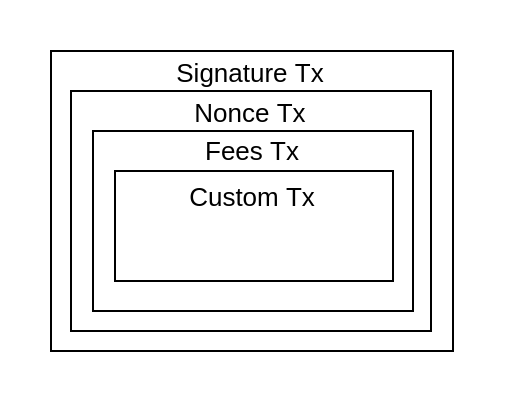
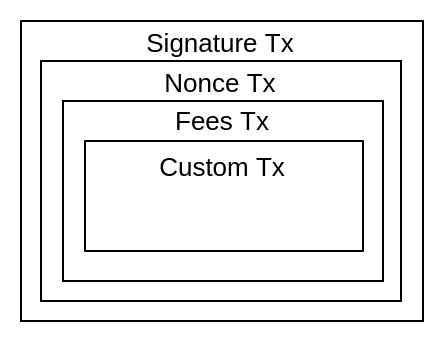
Create overview.md
Update infographic.xml

Update infographic.xml

Added tx.png

Added tx.png

Update overview.md

Added middleware.png

Added middleware.png

small infograpic doc changes

Changed region(s): [[0.0293, 0.0585, 0.9662, 0.9649]]

diff --git a/docs/quark/overview.md b/docs/quark/overview.md
@@ -1,0 +1,105 @@
+# Quark Overview
+
+The quark middleware design optimizes flexibility and security. The framework
+is designed around a modular execution stack which allows applications to mix
+and match modular elements as desired. Along side, all modules are permissioned
+and sandboxed to reduce 
+
+For more explanation please see the [standard
+library](https://github.com/tendermint/basecoin/blob/infographic/docs/quark/stdlib.md)
+and
+[glossary](https://github.com/tendermint/basecoin/blob/infographic/docs/quark/glossary.md)
+documentation.
+
+For a more interconnected schematics see these
+[framework](https://github.com/tendermint/basecoin/blob/infographic/docs/graphics/overview-framework.png)
+and
+[security](https://github.com/tendermint/basecoin/blob/infographic/docs/graphics/overview-security.png)
+overviews.
+
+## Framework Overview
+
+### Transaction (tx) 
+
+Each tx passes through the middleware stack which can be defined uniquely by
+each application.  From the multiple layers of tx, each middleware may strip
+off one level, like an onion.  As so, the transaction must be constructed to
+mirror the execution stack, and each middleware should allow embedding an
+arbitrary tx for the next layer in the stack.
+
+<img src="https://github.com/tendermint/basecoin/blob/infographic/docs/graphics/tx.png" width=250>
+
+### Execution Stack
+
+Middleware components allow for code reusability and integrability. A standard
+set of middleware are provided and can be mix-and-matched with custom
+middleware. Some of the [standard
+library](https://github.com/tendermint/basecoin/blob/infographic/docs/quark/stdlib.md)
+middlewares provided in this package include:
+ - Logging
+ - Recovery
+ - Signatures
+ - Chain
+ - Nonce
+ - Fees
+ - Roles
+ - Inter-Blockchain-Communication (IBC)
+ 
+ As a part of stack execution the state space provided to each middleware is
+isolated (see [Data Store](overview.md#data-store)). When executing the stack,
+state-recovery points (checkpoints) can be assigned for stack execution of
+`CheckTx` or `DeliverTx`. This means, that all state changes will be reverted
+to the checkpoint state on failure when either being run as a part of `CheckTx`
+or `DeliverTx`. Example usage of the checkpoints is when we may want to deduct
+a fee even if the end business logic fails, under this situation we would add
+the DeliverTx Checkpoint to after the fee middleware but before the business
+logic. This diagram displays a typical process flow through an execution stack.
+
+<img src="https://github.com/tendermint/basecoin/blob/infographic/docs/graphics/middleware.png" width=500>
+
+### Dispatcher
+
+The dispatcher handler aims to allow for reusable business logic.  As a
+transaction is passed to the end handler, the dispatcher routes the logic to
+the correct module.  To use the dispatcher tool all transaction types must
+first be registered with the dispatcher. Once registered the middleware stack
+or any other handler can call the dispatcher to execute a transaction.
+Similarity to the execution stack, when executing a transaction the dispatcher
+isolates the state space available to the designated module (see [Data
+Store](overview.md#data-store)).
+
+<img src="https://github.com/tendermint/basecoin/blob/infographic/docs/graphics/dispatcher.png" width=600>
+
+## Security Overview
+
+### Permission
+
+Each application is run in a sandbox to isolate security risks. When
+interfacing between applications, if a one of those application is compromised
+the entire network should still be secure. This is achieved through actor
+permissioning whereby each chain, account, or application can provided a
+designated permission for the transaction context to perform a specific action.
+
+Context is passed through the middleware and dispatcher, allowing one to add
+permissions on this app-space, and check current permissions.
+
+<img src="https://github.com/tendermint/basecoin/blob/infographic/docs/graphics/permission.png" width=500>
+
+### Data Store
+
+The entire merkle tree can access all data. When we call a module (or
+middleware), we give them access to a subtree corresponding to their app. This
+is achieved through the use of unique prefix assigned to each module. From the
+module's perspective it is no different, the module need-not have regard for
+the prefix as it is assigned outside of the modules scope. For example, if a
+module named `foo` wanted to write to the store it could save records under the
+key `bar` however the dispatcher would register that record in the persistent
+state under `foo/bar`. Next time the `foo` app was called that record would be
+accessible to it under the assigned key `bar`. This effectively makes app
+prefixing invisible to each module while preventing each module from affecting
+each other module. Under this model no two registered modules are permitted to
+have the same namespace.
+
+<img src="https://github.com/tendermint/basecoin/blob/infographic/docs/graphics/datastore.png" width=500>
+
+

diff --git a/docs/quark/README.md b/docs/quark/README.md
@@ -45,6 +45,7 @@ into various applications.
 
 ## Further reading
 
+* [Quark overview](overview.md)
 * [Glossary of the terms](glossary.md)
 * [Standard modules](stdlib.md)
 * Guide to building a module